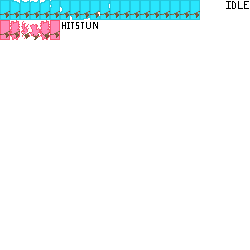
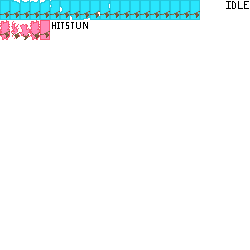
Improved: - Animations

Changed region(s): [[0.0, 0.056, 0.28, 0.168], [0.308, 0.084, 0.392, 0.112]]

diff --git a/Code/basic.py b/Code/basic.py
@@ -75,7 +75,7 @@ def draw_debug(screen, groups: list):
                         atk_color = pygame.Color("blue")
 
                     if isinstance(atk, OrbitAttack):
-                        pix_arr = pygame.surfarray.pixels3d(atk.collision_image)
+                        pix_arr = pygame.surfarray.pixels3d(atk.image)
 
                         for i in range(len(pix_arr)):
                             for j in range(len(pix_arr[i])):
@@ -83,7 +83,7 @@ def draw_debug(screen, groups: list):
 
                         del pix_arr
 
-                        screen.blit(atk.collision_image, atk.rect.topleft)
+                        screen.blit(atk.image, atk.rect.topleft)
                         continue
 
                     atk_image = pygame.Surface(atk.rect.size, pygame.SRCALPHA)
@@ -115,7 +115,7 @@ class CSprite(pygame.sprite.Sprite):
         self.add_animation(start_aname, self.orig_image, start_arect, start_framerate, start_rows, start_columns)
 
         self.a_data = {"name": start_aname, "a_frame": 0, "frame": self.animation_frames[start_aname]["framerate"],
-                       "play": True, "cycle": False}
+                       "play": True, "cycle": False, "reverse": False, "ended": False}
 
         # basic
         self.image = self.get_updated_image()
@@ -143,52 +143,72 @@ class CSprite(pygame.sprite.Sprite):
     def get_updated_image(self) -> pygame.Surface:
         return pygame.transform.scale(self.animation_frames[self.a_data["name"]]["animation"][self.a_data["a_frame"]], self.resize_to)
 
-    def change_animation(self, name: str, play=True, cycle=False):
-        self.a_data = {"name": name, "a_frame": 0, "frame": self.animation_frames[name]["framerate"],
-                       "play": play, "cycle": cycle}
+    def change_animation(self, name: str, play=True, cycle=False, reverse=False):
+        self.a_data = {"name": name,
+                       "a_frame": 0 if not reverse else len(self.animation_frames[name]["animation"]) - 1,
+                       "frame": self.animation_frames[name]["framerate"],
+                       "play": play, "cycle": cycle, "reverse": reverse, "ended": False}
 
-    def control_animation(self, play=True, cycle=False):
+    def control_animation(self, play=True, cycle=False, reverse=False):
         self.a_data["play"] = play
         self.a_data["cycle"] = cycle
+        self.a_data["reverse"] = reverse
 
     def update(self):
         if not self.a_data["play"]:
+            self.a_data["ended"] = True
             return
+
+        self.a_data["ended"] = False
 
         if self.a_data["frame"] > 0:
             self.a_data["frame"] -= 1
             return
 
-        if not self.a_data["cycle"] and self.a_data["a_frame"] == len(self.animation_frames[self.a_data["name"]]["animation"]) - 1:
+        if not self.a_data["reverse"]:
+            if not self.a_data["cycle"] and self.a_data["a_frame"] == len(self.animation_frames[self.a_data["name"]]["animation"]) - 1:
+                self.a_data["ended"] = True
+                return
+
+            self.a_data["a_frame"] = (self.a_data["a_frame"] + 1) % len(self.animation_frames[self.a_data["name"]]["animation"])
+            self.image = self.get_updated_image()
+            self.a_data["frame"] = self.animation_frames[self.a_data["name"]]["framerate"]
             return
 
-        self.a_data["a_frame"] = (self.a_data["a_frame"] + 1) % len(self.animation_frames[self.a_data["name"]]["animation"])
+        if not self.a_data["cycle"] and not self.a_data["a_frame"]:
+            self.a_data["ended"] = True
+            return
+
+        self.a_data["a_frame"] = (self.a_data["a_frame"] - 1) % len(self.animation_frames[self.a_data["name"]]["animation"])
         self.image = self.get_updated_image()
         self.a_data["frame"] = self.animation_frames[self.a_data["name"]]["framerate"]
 
 
 class COLCSprite(CSprite):
-    def __init__(self, pos: tuple, size: tuple, collision_type: str, img_path: str, collision_img_path: str,
+    def __init__(self, pos: tuple, size: tuple, collision_type: str, collision_img_path: str, display_img_path: str,
                  start_aname="", start_arect=pygame.Rect(0, 0, 1, 1), start_framerate=0, start_rows=1, start_columns=1,
                  relative_pos=(0, 0), colorkey=0):
-        super().__init__([], pos, size, img_path,
-                         start_aname, start_arect, start_framerate, start_rows, start_columns,
+        super().__init__([], pos, size, collision_img_path,
+                         "", pygame.Rect(0, 0, *size), 0, 1, 1,
                          colorkey)
 
-        self.collision_image = load_image(collision_img_path)
-        self.mask = pygame.mask.from_surface(self.collision_image)
-
+        # attacks
         self.collision_type = collision_type
         self.relative_pos = relative_pos
 
+        # animation
+        self.display = CSprite([], pos, size, display_img_path,
+                               start_aname, start_arect, start_framerate, start_rows, start_columns,
+                               colorkey)
+
 
 class Attack(COLCSprite):
-    def __init__(self, relative_pos: tuple, size: tuple, collision_type: str, img_path: str, collision_img_path: str,
+    def __init__(self, relative_pos: tuple, size: tuple, collision_type: str, collision_img_path: str, display_img_path: str,
                  startup_frames: int, active_frames: int, recovery_frames: int,
                  damage: int, cooldown: int, applied_invincibility_frames: int,
                  start_aname="", start_arect=pygame.Rect(0, 0, 1, 1), start_framerate=0, start_rows=1, start_columns=1,
                  movable=True, colorkey=0):
-        super().__init__((0, 0), size, collision_type, img_path, collision_img_path,
+        super().__init__((0, 0), size, collision_type, collision_img_path, display_img_path,
                          start_aname, start_arect, start_framerate, start_rows, start_columns,
                          relative_pos, colorkey)
 
@@ -207,11 +227,16 @@ class Attack(COLCSprite):
 
     def setup(self, pos: tuple):
         self.rect.center = pos
+        self.display.rect.center = pos
 
         self.counter = {"startup": self.startup_frames, "active": self.active_frames, "recovery": self.recovery_frames,
                         "cooldown": self.cooldown}
 
         self.pos_diff = self.rect.center[0] - pos[0], self.rect.center[1] - pos[1]
+
+    def move(self, pos: tuple):
+        self.rect.center = pos
+        self.display.rect.center = pos
 
     def check_collision(self, with_what) -> bool:
         if self.collision_type == "rect" and with_what.collision_type == "rect":
@@ -236,12 +261,12 @@ class Attack(COLCSprite):
 
 
 class OrbitAttack(Attack):
-    def __init__(self, relative_to_pivot_pos: tuple, size: tuple, img_path: str, collision_img_path: str,
+    def __init__(self, relative_to_pivot_pos: tuple, size: tuple, collision_img_path: str, display_img_path: str,
                  length: int, startup_frames: int, active_frames: int, recovery_frames: int,
                  damage: int, cooldown: int, applied_invincibility_frames: int,
                  start_aname="", start_arect=pygame.Rect(0, 0, 1, 1), start_framerate=0, start_rows=1, start_columns=1,
                  colorkey=0):
-        super().__init__(relative_to_pivot_pos, size, "mask", img_path, collision_img_path,
+        super().__init__(relative_to_pivot_pos, size, "mask", collision_img_path, display_img_path,
                          startup_frames, active_frames, recovery_frames, damage, cooldown, applied_invincibility_frames,
                          start_aname, start_arect, start_framerate, start_rows, start_columns,
                          True, colorkey)
@@ -251,19 +276,21 @@ class OrbitAttack(Attack):
     def setup_orbit(self, pivot_pos: tuple, target: tuple):
         super().setup(pivot_pos)
 
-        self.collision_image, self.rect = get_rotated_around_pivot(self.orig_image, self.collision_image, self.rect.center, target, self.length)
-        self.mask = pygame.mask.from_surface(self.collision_image)
+        self.image, self.rect = get_rotated_around_pivot(self.orig_image, self.image, self.rect.center, target, self.length)
+        self.display.rect.center = self.rect.center
+
+        self.mask = pygame.mask.from_surface(self.image)
 
         self.pos_diff = self.rect.center[0] - pivot_pos[0], self.rect.center[1] - pivot_pos[1]
 
 
 class Projectile(COLCSprite):
-    def __init__(self, start_pos: tuple, size: tuple, collision_type: str, img_path: str, collision_img_path: str,
+    def __init__(self, start_pos: tuple, size: tuple, collision_type: str, collision_img_path: str, display_img_path: str,
                  direction: pygame.math.Vector2, speed_divided_by_fps: int, destroy_frames: int,
                  damage: int, applied_invincibility_frames: int, do_bounce=False, applied_hitstun_frames=0,
                  start_aname="", start_arect=pygame.Rect(0, 0, 1, 1), start_framerate=0, start_rows=1, start_columns=1,
                  colorkey=0):
-        super().__init__(start_pos, size, collision_type, img_path, collision_img_path,
+        super().__init__(start_pos, size, collision_type, collision_img_path, display_img_path,
                          start_aname, start_arect, start_framerate, start_rows, start_columns,
                          colorkey=colorkey)
 
@@ -280,6 +307,9 @@ class Projectile(COLCSprite):
     def move(self):
         self.fpos += self.dir * self.speed
         self.rect.center = self.fpos
+
+        self.display.fpos += self.dir * self.speed
+        self.display.rect.center = self.display.fpos
 
     def check_collision(self, with_what) -> bool:
         if self.collision_type == "rect" and with_what.collision_type == "rect":
@@ -463,7 +493,7 @@ class Entity(Part):
 
         for atk in self.curr_attacks:
             if atk.movable:
-                atk.rect.center = self.rect.center[0] + atk.pos_diff[0], self.rect.center[1] + atk.pos_diff[1]
+                atk.move(self.rect.center[0] + atk.pos_diff[0], self.rect.center[1] + atk.pos_diff[1])
 
     def update(self):
         super().update()

diff --git a/Code/distance.py b/Code/distance.py
@@ -12,8 +12,11 @@ class Move(basic.State):
 
         self.SPEED = 25 / main.FPS
 
+        self.parent.add_animation("MOVE", self.parent.orig_image, pygame.Rect(0, 20, 10, 20), 3, 3, 1)
+
     def enter(self, var):
         self.move_angle = random.randint(-45, 45)
+        self.parent.change_animation("MOVE")
 
     def run(self) -> str:
         if basic.get_distance(self.parent.rect.center, self.parent.player.rect.center) >= 70:
@@ -47,7 +50,13 @@ class SimpleProjectile(basic.State):
         self.reload_frames = 100
         self.counter = {"reload": self.reload_frames}
 
+    def enter(self, var):
+        self.parent.change_animation("MOVE", reverse=True)
+
     def run(self) -> str:
+        if self.parent.a_data["name"] == "MOVE" and self.parent.a_data["ended"]:
+            self.parent.change_animation("SIMPLEPROJECTILE", cycle=True)
+
         if basic.get_distance(self.parent.rect.center, self.parent.player.rect.center) <= 70:
             return "MOVE"
 
@@ -65,15 +74,18 @@ class SimpleProjectile(basic.State):
 
 
 class Distance(basic.StateMachine, basic.Entity):
-    def __init__(self, player: player.Player, groups: list, collide_with: list, to_attack: list, pos=(0, 0), size=(10, 20)):
+    def __init__(self, player: player.Player, groups: list, collide_with: list, to_attack: list, pos=(0, 0), size=(50, 100)):
         basic.Entity.__init__(self, groups, collide_with, to_attack, pos, size, "../Data/Distance/main.png",
-                              "", pygame.Rect(0, 0, 10, 20), 0, 1, 1,
-                              75, "../Data/Distance/hurtbox.png", (10, 20), True, "../Data/Distance/collider.png")
+                              "SIMPLEPROJECTILE", pygame.Rect(0, 0, 10, 20), 7, 8, 1,
+                              75, "../Data/Distance/hurtbox.png", (10, 20),
+                              True, "../Data/Distance/collider.png")
 
         self.STATES = {"MOVE": Move(self), "SIMPLEPROJECTILE": SimpleProjectile(self)}
         basic.StateMachine.__init__(self, self.STATES, "MOVE")
 
         self.player = player
+
+        self.control_animation(cycle=True)
 
     def update(self):
         basic.CSprite.update(self)

diff --git a/Code/player.py b/Code/player.py
@@ -80,7 +80,7 @@ class Hitstun(basic.State):
     def __init__(self, parent):
         super().__init__(parent)
 
-        self.parent.add_animation("HITSTUN", self.parent.orig_image, pygame.Rect(0, 20, 10, 20), 3, 6, 1)
+        self.parent.add_animation("HITSTUN", self.parent.orig_image, pygame.Rect(0, 20, 10, 20), 3, 5, 1)
 
     def enter(self, var):
         self.hitstun_counter = var if var is not None else 0
@@ -109,7 +109,7 @@ class LightAttack(basic.OrbitAttack, basic.State):
 # endregion
 
 class Player(basic.StateMachine, basic.Entity):
-    def __init__(self, groups: list, collide_with: list, to_attack: list, pos=(0, 0), size=(250, 500)):
+    def __init__(self, groups: list, collide_with: list, to_attack: list, pos=(0, 0), size=(10, 20)):
         basic.Entity.__init__(self, groups, collide_with, to_attack, pos, size, "../Data/Player/main.png",
                               "IDLE", pygame.Rect(0, 0, 10, 20), 7, 20, 1,
                               200, "../Data/Player/hurtbox.png", (10, 20),

diff --git a/Code/melee.py b/Code/melee.py
@@ -58,13 +58,15 @@ class SimpleAttack(basic.OrbitAttack, basic.State):
 class Melee(basic.StateMachine, basic.Entity):
     def __init__(self, player: player.Player, groups: list, collide_with: list, to_attack: list, pos=(0, 0), size=(10, 20)):
         basic.Entity.__init__(self, groups, collide_with, to_attack, pos, size, "../Data/Melee/main.png",
-                              "", pygame.Rect(0, 0, 10, 20), 0, 1, 1,
+                              "MOVE", pygame.Rect(0, 0, 10, 20), 5, 8, 2,
                               100, "../Data/Melee/hurtbox.png", (10, 20), True, "../Data/Melee/collider.png")
 
         self.STATES = {"MOVE": Move(self), "SIMPLEATTACK": SimpleAttack(self)}
         basic.StateMachine.__init__(self, self.STATES, "MOVE")
 
         self.player = player
+
+        self.control_animation(cycle=True)
 
     def update(self):
         basic.CSprite.update(self)
